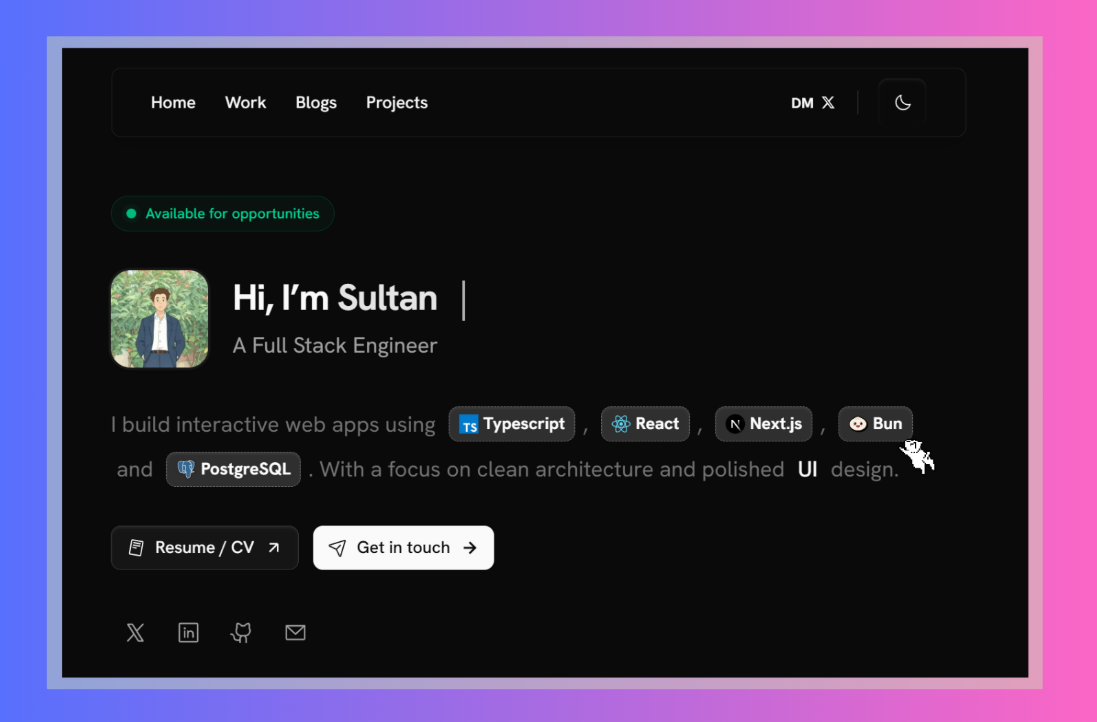
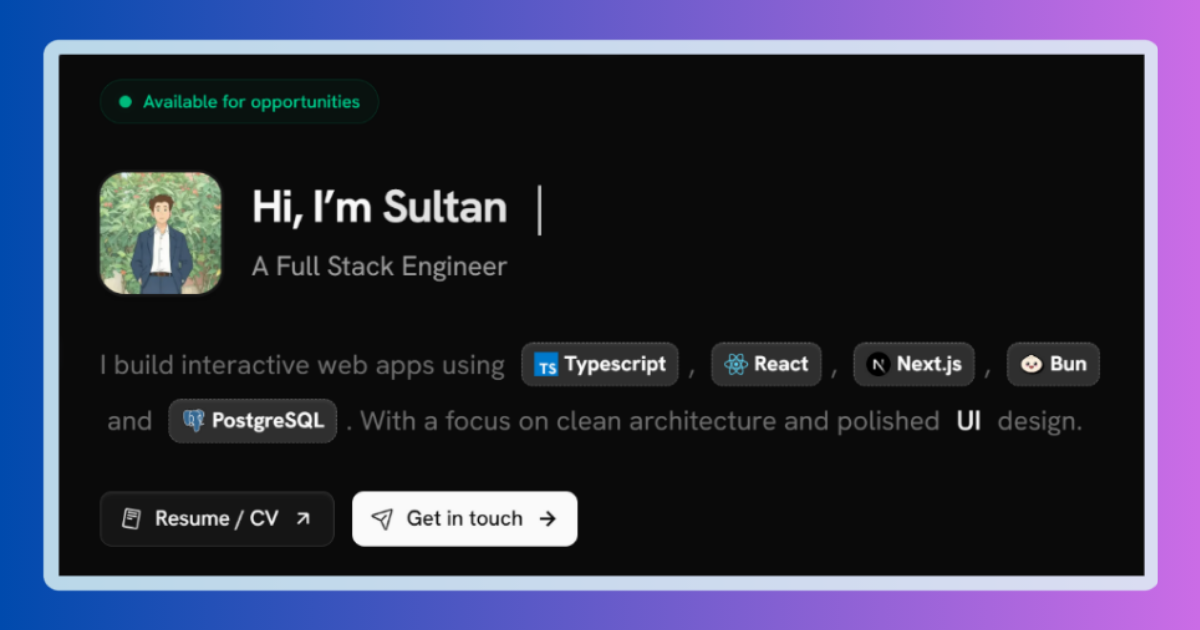
fixing twitterCard

diff --git a/src/config/Meta.tsx b/src/config/Meta.tsx
@@ -12,8 +12,8 @@ export interface PageMeta {
 // Base site configuration
 export const siteConfig = {
   name: heroConfig.name,
-  title: 'Sleek Portfolio',
-  description: 'Sleek Portfolio Template by @Sultanxdev',
+  title: 'Sultan Portfolio',
+  description: 'Sultan Portfolio Template by @Sultanxdev',
   url:'https://www.sultanx.dev',
   ogImage: '/meta/opengraph-image.png',
   author: {
